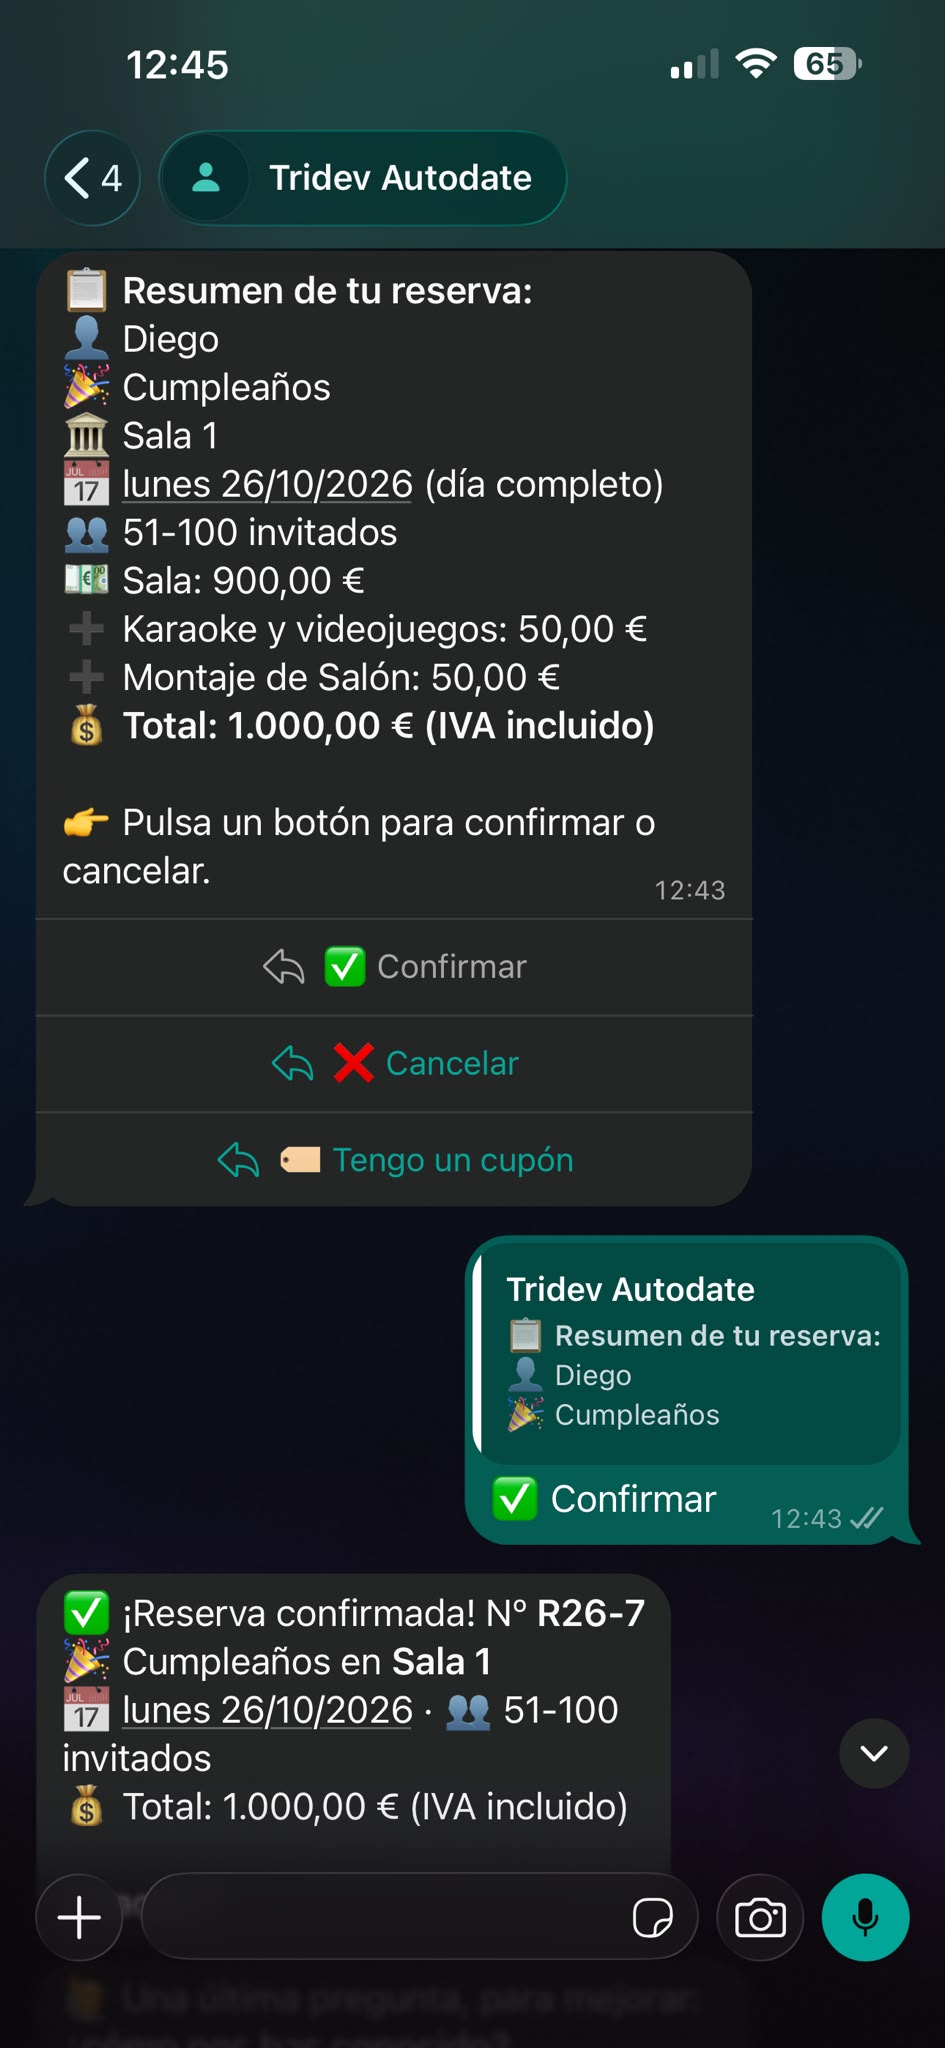
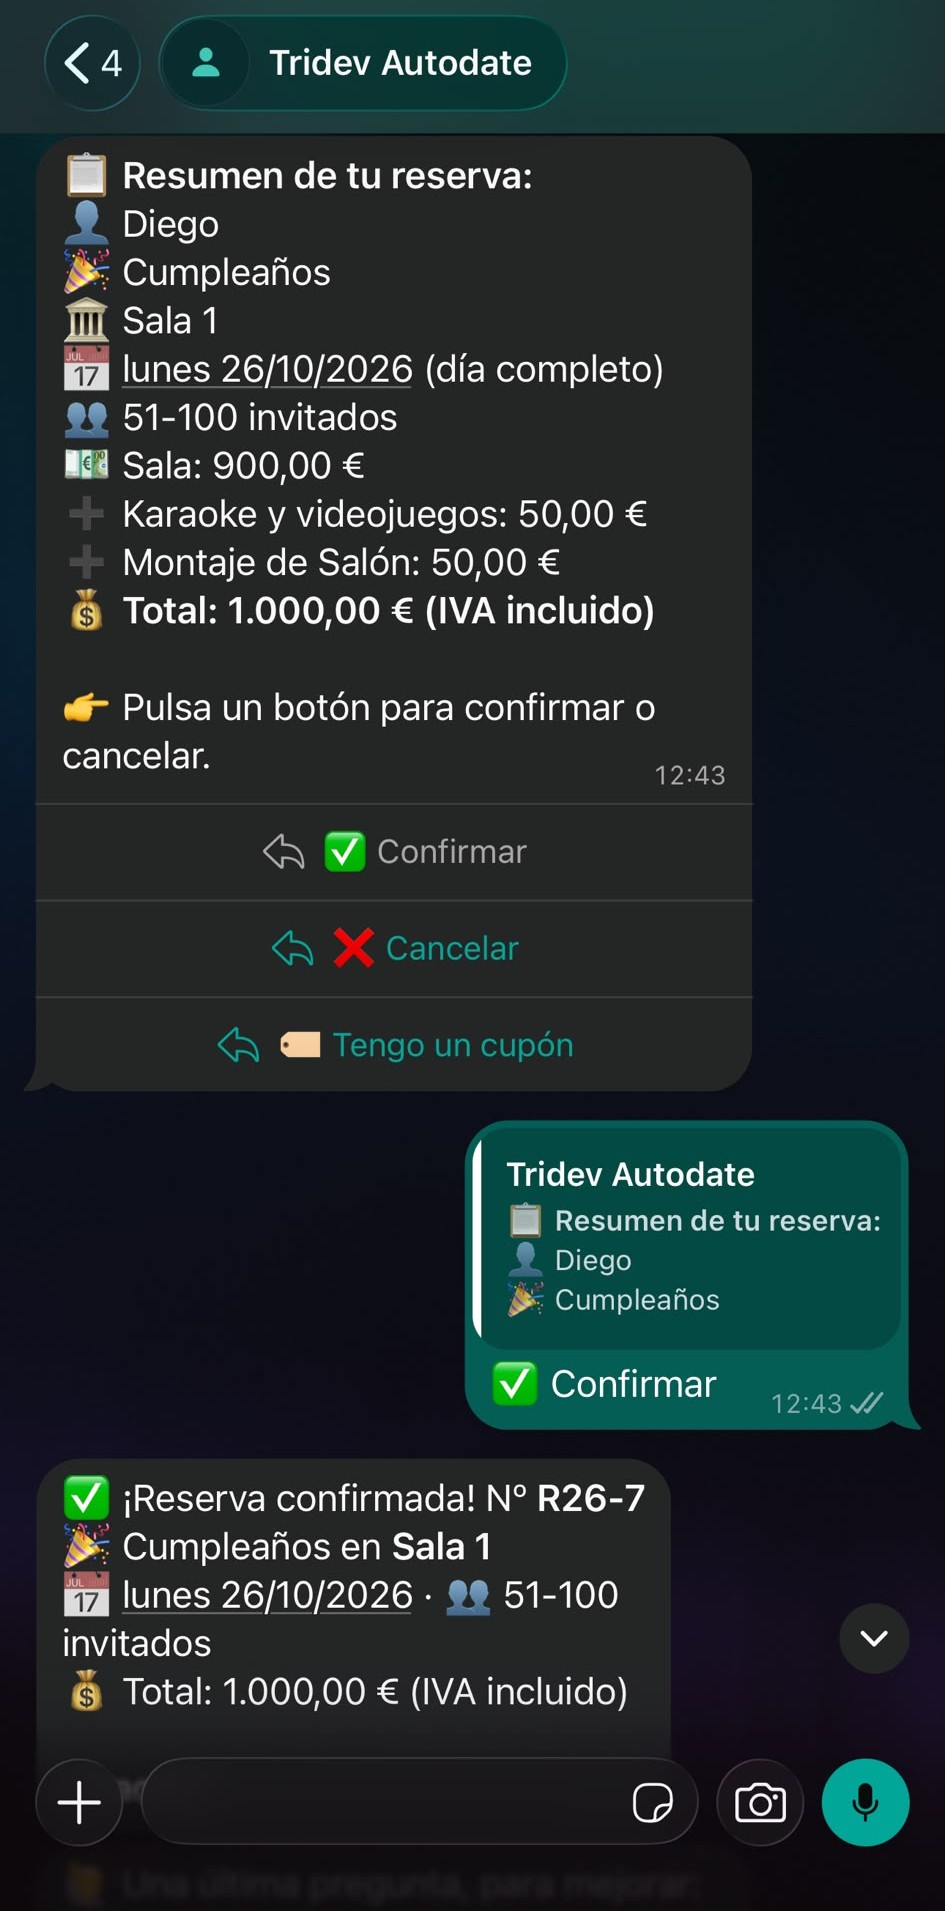
mejoras fotos

diff --git a/script.js b/script.js
@@ -66,7 +66,7 @@ contactForm.addEventListener('submit', function (e) {
             submitBtn.textContent = 'Enviar Mensaje';
         });
 });
-// 4. VISOR DE IMÁGENES (LIGHTBOX) PANTALLA COMPLETA
+// 4. VISOR DE IMÁGENES (LIGHTBOX) SEPARADO POR GALERÍAS
 const lightbox = document.getElementById('lightbox');
 const lightboxImg = document.getElementById('lightbox-img');
 const closeBtn = document.querySelector('.lightbox-close');
@@ -74,16 +74,28 @@ const prevBtn = document.querySelector('.lightbox-prev');
 const nextBtn = document.querySelector('.lightbox-next');
 
 if (lightbox && lightboxImg) {
-    // Recoge todas las imágenes que tengan la clase gallery-img
-    const galleryImages = Array.from(document.querySelectorAll('.gallery-img'));
+    const allGalleryImages = Array.from(document.querySelectorAll('.gallery-img'));
+    let currentGallery = [];
     let currentIndex = 0;
 
-    // Al hacer clic en una foto, se abre el visor
-    galleryImages.forEach((img, index) => {
+    allGalleryImages.forEach((img) => {
         img.addEventListener('click', () => {
+            // 1. Miramos a qué galería pertenece la foto clicada
+            const galleryName = img.getAttribute('data-gallery');
+
+            // 2. Filtramos solo las imágenes que tengan ese mismo nombre
+            if (galleryName) {
+                currentGallery = allGalleryImages.filter(i => i.getAttribute('data-gallery') === galleryName);
+            } else {
+                currentGallery = [img]; // Por si alguna foto no tiene grupo
+            }
+
+            // 3. Buscamos en qué posición está la foto clicada dentro de su grupo
+            currentIndex = currentGallery.indexOf(img);
+
+            // 4. Mostramos el visor
             lightbox.style.display = 'block';
             lightboxImg.src = img.src;
-            currentIndex = index;
         });
     });
 
@@ -101,13 +113,15 @@ if (lightbox && lightboxImg) {
 
     // Flecha Izquierda
     prevBtn.addEventListener('click', () => {
-        currentIndex = (currentIndex > 0) ? currentIndex - 1 : galleryImages.length - 1;
-        lightboxImg.src = galleryImages[currentIndex].src;
+        if (currentGallery.length === 0) return;
+        currentIndex = (currentIndex > 0) ? currentIndex - 1 : currentGallery.length - 1;
+        lightboxImg.src = currentGallery[currentIndex].src;
     });
 
     // Flecha Derecha
     nextBtn.addEventListener('click', () => {
-        currentIndex = (currentIndex < galleryImages.length - 1) ? currentIndex + 1 : 0;
-        lightboxImg.src = galleryImages[currentIndex].src;
+        if (currentGallery.length === 0) return;
+        currentIndex = (currentIndex < currentGallery.length - 1) ? currentIndex + 1 : 0;
+        lightboxImg.src = currentGallery[currentIndex].src;
     });
 }

diff --git a/index.html b/index.html
@@ -122,9 +122,10 @@
                     <div class="media-grid">
                         <video src="fotos/autodate.mp4" class="project-item item-large" controls playsinline></video>
 
-                        <img src="fotos/FotoLista.jpeg" alt="" class="project-item gallery-img">
+                        <img src="fotos/FotoLista.jpeg" alt="" class="project-item gallery-img" data-gallery="whatsapp">
 
-                        <img src="fotos/FotoConfirmacion.jpeg" alt="" class="project-item gallery-img">
+                        <img src="fotos/FotoConfirmacion.jpeg" alt="" class="project-item gallery-img"
+                            data-gallery="whatsapp">
                     </div>
                 </div>
             </div>
@@ -184,8 +185,10 @@
                 <div class="project-media">
                     <div class="media-grid">
                         <video src="fotos/dashboard.mp4" class="project-item item-large" controls playsinline></video>
-                        <img src="fotos/FotoDashboard.jpeg" alt="" class="project-item gallery-img">
-                        <img src="fotos/FotoReservas.jpeg" alt="" class="project-item gallery-img">
+                        <img src="fotos/FotoDashboard.jpeg" alt="" class="project-item gallery-img item-large"
+                            data-gallery="dashboard">
+                        <img src="fotos/FotoReservas.jpeg" alt="" class="project-item gallery-img item-large"
+                            data-gallery="dashboard">
                     </div>
                 </div>
             </div>

diff --git a/styles.css b/styles.css
@@ -440,6 +440,15 @@ body {
     gap: 30px;
 }
 
+.client-card img {
+    width: 100%;
+    height: 100px;
+    object-fit: contain;
+    /* Ajusta el logo entero sin recortarlo */
+    margin-bottom: 15px;
+    display: block;
+}
+
 .client-card {
     text-decoration: none;
     color: inherit;
